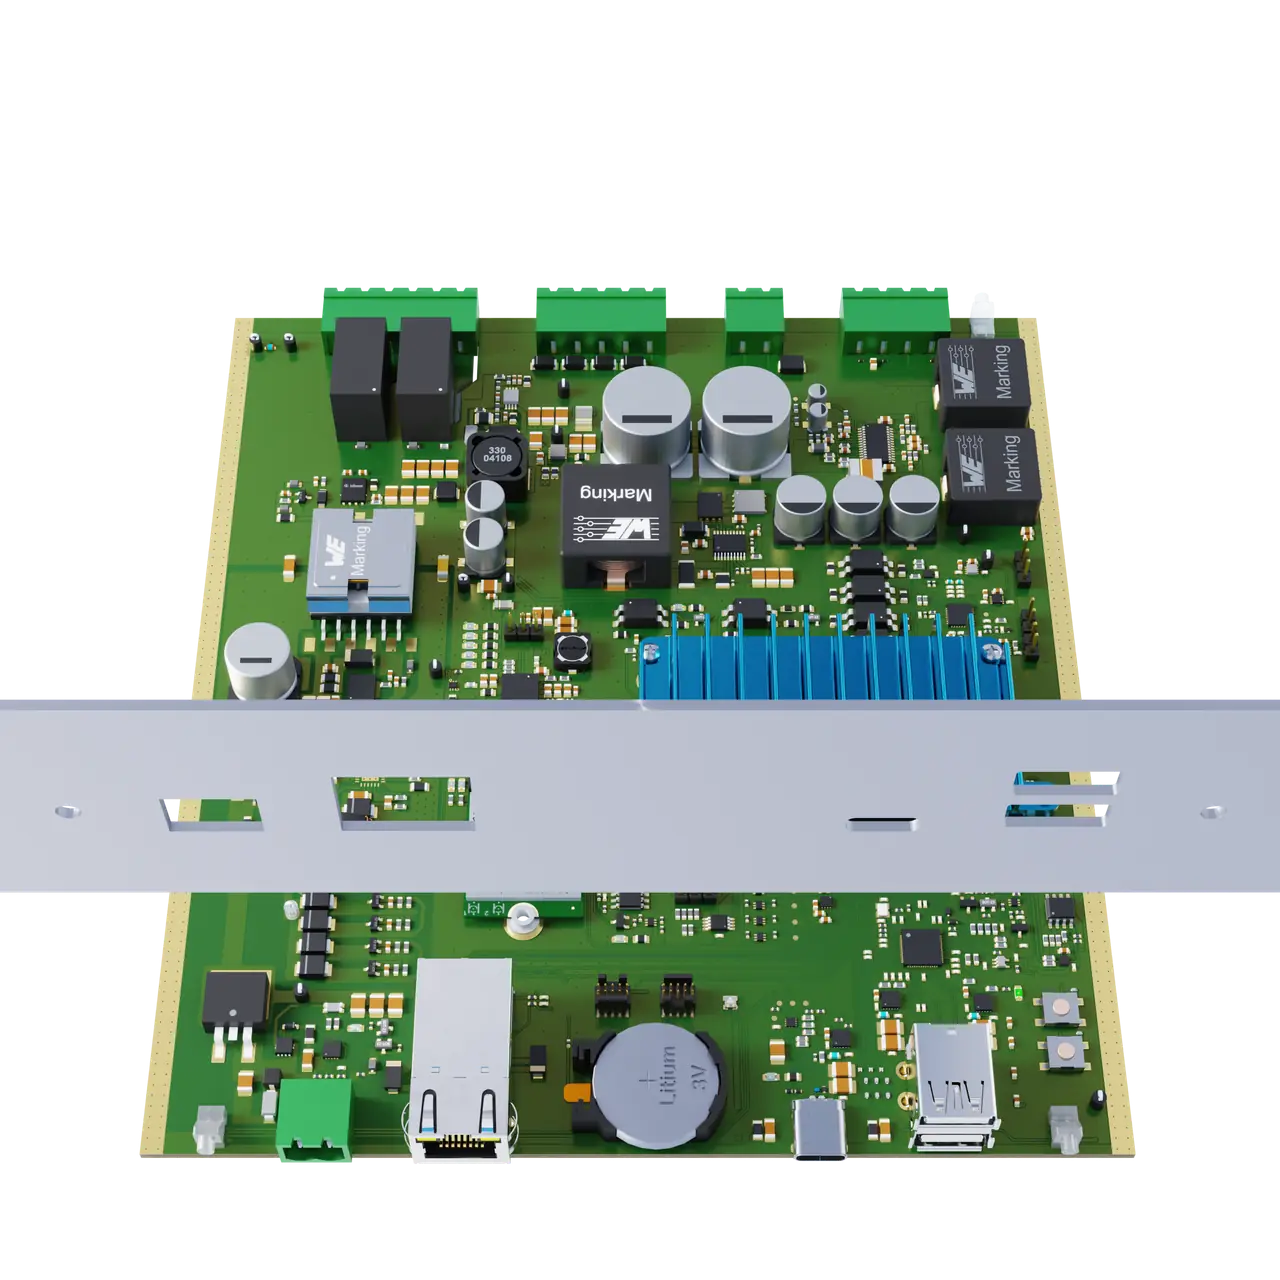
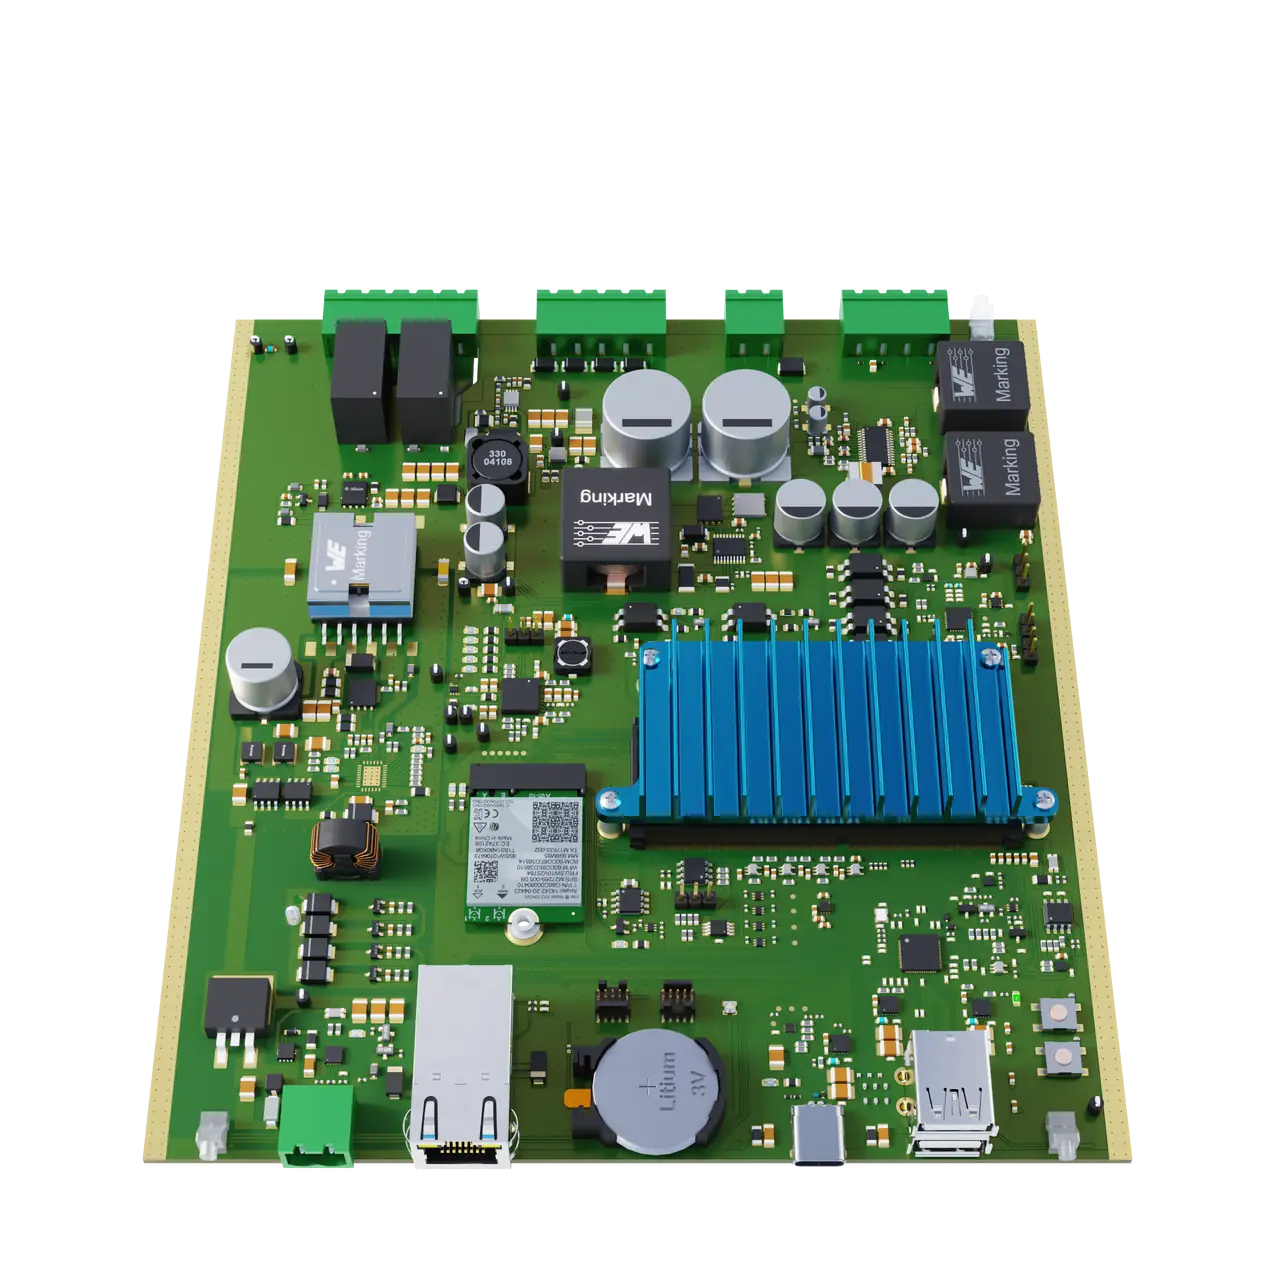
Take frame 35 off the source frame with the panel across the lens
The render puts the front panel into place over a single source frame, and an
even pick has no opinion about what is in a frame — at 85 it landed on that
one, so the sequence held a shot of the panel crossing the middle of the board
like a bar in front of the camera.

Frame 35 now takes source 0083 instead of 0084. Which neighbour was measured
rather than eyeballed: consecutive picks in this stretch differ by a mean
absolute delta of ~13, and 0083 leaves 13.2 going in and 19.9 coming out, while
0085 — the panel already seated — leaves 21.3 going in and 9.3 coming out,
which is a near-duplicate frame and reads as the motion stalling. So the panel
now arrives once, at 36, and stays.

Done as a `--swap <output>=<source>` flag rather than by overwriting one .webp,
because a hand-edited frame is silently undone by the next `npm run hero` and
records nothing about why it differed. The flag is repeatable, addresses the
source by the number in its filename so a gap in the render's numbering cannot
shift it, fails loudly on an out-of-range index, and is written into the
manifest so the sequence does not look purely mechanical to whoever reads it
next.

Three files move: the two tiers of frame 35 and the manifest. Everything else
is byte-identical, which is the check that the build is deterministic and that
this changed only what it claims to.

diff --git a/src/lib/heroFrames.ts b/src/lib/heroFrames.ts
@@ -36,6 +36,12 @@ export interface HeroManifest {
    * Both 1 means no push. See scripts/build-hero-frames.mjs for why it exists.
    */
   zoom: { start: number; end: number };
+  /**
+   * Output frames whose source was overridden with `--swap`, as
+   * `{ [output index]: source frame number }`, or null. Provenance only, like
+   * `crop`: the substitution has already happened in the pixels on disk.
+   */
+  swaps: Record<string, number> | null;
   generated: string;
 }
 
